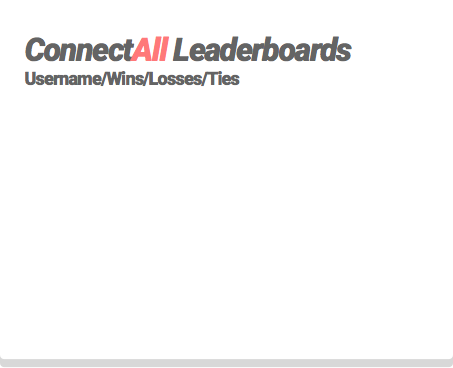
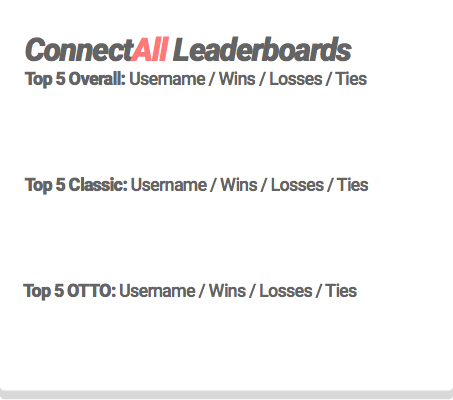
leaderboards are working

Changed region(s): [[0.0309, 0.0897, 0.8344, 0.2391], [0.0309, 0.6875, 0.8035, 0.7473], [0.0618, 0.4185, 0.8344, 0.5082]]

diff --git a/lib/multi-connectall/lib/client/controllers/game_controllers/network_comm_ctrl.rb b/lib/multi-connectall/lib/client/controllers/game_controllers/network_comm_ctrl.rb
@@ -39,45 +39,50 @@ module Controllers
     end
 
     def init_login(name)
-      puts "#{['init', name].join('|')}"
-      @window.client_network_com.send_message(['init', name].join('|'))  
+      # puts "#{['init', name].join('|')}"
+      send_message(['init', name].join('|'))  
     end
 
     def join_queue(mode)
       if mode == 'classic'
-        @window.client_network_com.send_message("classic")
+        send_message("classic")
       elsif mode == 'otto'
-        @window.client_network_com.send_message("otto")
+        send_message("otto")
       end
     end
 
     def send_win
       if @window.game_state_model::game_type == :classic
-        @window.client_network_com.send_message(['win', @window.game_state_model::players[@window.game_state_model::player_role].name, 'classic'].join('|'))  
+        send_message(['win', @window.game_state_model::players[@window.game_state_model::player_role].name, 'classic'].join('|'))  
       elsif @window.game_state_model::game_type == :otto
-        @window.client_network_com.send_message(['win', @window.game_state_model::players[@window.game_state_model::player_role].name, 'otto'].join('|'))  
+        send_message(['win', @window.game_state_model::players[@window.game_state_model::player_role].name, 'otto'].join('|'))  
       end
     end
 
     def send_loss
       if @window.game_state_model::game_type == :classic
-        @window.client_network_com.send_message(['loss', @window.game_state_model::players[@window.game_state_model::player_role].name, 'classic'].join('|'))  
+        send_message(['loss', @window.game_state_model::players[@window.game_state_model::player_role].name, 'classic'].join('|'))  
       elsif @window.game_state_model::game_type == :otto
-        @window.client_network_com.send_message(['loss', @window.game_state_model::players[@window.game_state_model::player_role].name, 'otto'].join('|'))  
+        send_message(['loss', @window.game_state_model::players[@window.game_state_model::player_role].name, 'otto'].join('|'))  
       end
+    end
+
+    def receive_leaderboards
+      send_message('leaderboards')  
+      return read_message
     end
 
 
     def send_tie
       if @window.game_state_model::game_type == :classic
-        @window.client_network_com.send_message(['tie', @window.game_state_model::players[@window.game_state_model::player_role].name, 'classic'].join('|'))  
+        send_message(['tie', @window.game_state_model::players[@window.game_state_model::player_role].name, 'classic'].join('|'))  
       elsif @window.game_state_model::game_type == :otto
-        @window.client_network_com.send_message(['tie', @window.game_state_model::players[@window.game_state_model::player_role].name, 'otto'].join('|'))  
+        send_message(['tie', @window.game_state_model::players[@window.game_state_model::player_role].name, 'otto'].join('|'))  
       end
     end
 
     def move(x)
-      @window.client_network_com.send_message(['move',@game_state_model::player_role,"#{x}%#{@game_state_model::grid.column_depth(x)}"].join('|'))
+      send_message(['move',@game_state_model::player_role,"#{x}%#{@game_state_model::grid.column_depth(x)}"].join('|'))
     end
 
   end

diff --git a/lib/multi-connectall/lib/server/controllers/db_ctrl.rb b/lib/multi-connectall/lib/server/controllers/db_ctrl.rb
@@ -84,16 +84,34 @@ module Controllers
     	@database.query("DELETE FROM savedGames WHERE playerID = " << playerID << "")
     end
 
-    def get_top_classic_players()
-    	@database.query("SELECT playerName, classicWins AS wins, classicLoses AS loses, classicTies AS ties FROM users ORDER BY classicWins - classicLoses + classicTies DESC LIMIT 5")
+    def get_top_classic_players
+    	results = @database.query("SELECT playerName, classicWins AS wins, classicLoses AS loses, classicTies AS ties FROM users ORDER BY classicWins - classicLoses + classicTies DESC LIMIT 5")
+      total = ""
+      results.map do |row|
+        reval = "#{row['playerName']} / #{row['wins']} / #{row['loses']} / #{row['ties']} \n"
+        total << reval
+      end
+      return total
     end
 
-    def get_top_otto_players()
-			@database.query("SELECT playerName, ottoWins AS wins, ottoLoses AS loses, ottoTies AS ties FROM users ORDER BY ottoWins - ottoLoses + ottoTies DESC LIMIT 5")
+    def get_top_otto_players
+			results = @database.query("SELECT playerName, ottoWins AS wins, ottoLoses AS loses, ottoTies AS ties FROM users ORDER BY ottoWins - ottoLoses + ottoTies DESC LIMIT 5")
+      total = ""
+      results.map do |row|
+        reval = "#{row['playerName']} / #{row['wins']} / #{row['loses']} / #{row['ties']} \n"
+        total << reval
+      end
+      return total
     end
 
-    def get_top_overall_players()
-    	@database.query("SELECT playerName, classicWins + ottoWins AS wins, classicLoses + ottoLoses AS loses, classicTies + ottoTies AS ties FROM users ORDER BY classicWins - classicLoses + classicTies + ottoWins - ottoLoses + ottoTies DESC LIMIT 5")
+    def get_top_overall_players
+    	results = @database.query("SELECT playerName, classicWins + ottoWins AS wins, classicLoses + ottoLoses AS loses, classicTies + ottoTies AS ties FROM users ORDER BY classicWins - classicLoses + classicTies + ottoWins - ottoLoses + ottoTies DESC LIMIT 5")
+      total = ""
+      results.map do |row|
+        reval = "#{row['playerName']} / #{row['wins']} / #{row['loses']} / #{row['ties']} \n"
+        total << reval
+      end
+      return total
     end
 
   end

diff --git a/lib/multi-connectall/lib/client/views/alert_popup/leaderboard_alert_view.rb b/lib/multi-connectall/lib/client/views/alert_popup/leaderboard_alert_view.rb
@@ -6,8 +6,29 @@ module Views
     # Used to identify how to play ConnectAll classic mode
 
     def initialize(window, controller)
+
       @window = window
+      @lb_total = Array.new
+      @lb_classic = Array.new
+      @lb_otto = Array.new
+
+      response = @window.client_network_com.receive_leaderboards
+      if response != nil
+        arresponse = response.split('|')
+        if arresponse[0] != nil
+          @lb_total = arresponse[0].split("\n")
+        end 
+        if arresponse[1] != nil
+          @lb_classic = arresponse[1].split("\n")
+        end 
+        if arresponse[2] != nil
+          @lb_otto = arresponse[2].split("\n")
+        end 
+        # puts "responses: #{@lb_total} ||| #{@lb_classic} ||| #{@lb_otto}"
+      end
+
       @controller = controller
+      @font = Gosu::Font.new(@window, "assets/fonts/HN_Bd.ttf", 20)
       @help = Gosu::Image.new("assets/images/item_leaderboards.png", :tileable => false)
       @cancel = BtnItem.new(@window, Gosu::Image.new("assets/images/btn_cancel_dark.png"), 450, 35, 100, lambda { @controller.alert_close }, Gosu::Image.new("assets/images/btn_cancel_dark.png", :tileable => false))
     end
@@ -20,6 +41,21 @@ module Views
     def draw
       @help.draw(30, 20, 100)
       @cancel.draw
+      initheight = 107
+      @lb_total.each {|x| 
+        @font.draw("#{x}", 90, initheight, 135, 1.0, 1.0, 0xff_646464)
+        initheight += 14
+      }
+      initheight = 212
+      @lb_classic.each {|x| 
+        @font.draw("#{x}", 90, initheight, 135, 1.0, 1.0, 0xff_646464)
+        initheight += 14
+      }
+      initheight = 320
+      @lb_otto.each {|x| 
+        @font.draw("#{x}", 90, initheight, 135, 1.0, 1.0, 0xff_646464)
+        initheight += 14
+      }
     end
     
     ##

diff --git a/lib/multi-connectall/lib/server/server.rb b/lib/multi-connectall/lib/server/server.rb
@@ -49,6 +49,12 @@ class Server
       if data && !data.empty?
         begin
           case data[0]
+            when 'leaderboards'
+              results_top = @db_ctrl.get_top_overall_players
+              results_classic = @db_ctrl.get_top_classic_players
+              results_otto = @db_ctrl.get_top_otto_players
+              results_total = [results_top, results_classic, results_otto].join('|')
+              socket.write(results_total)
             when 'init'
               @db_ctrl.insert_user_row_ignore(data[1])
             when 'classic'
